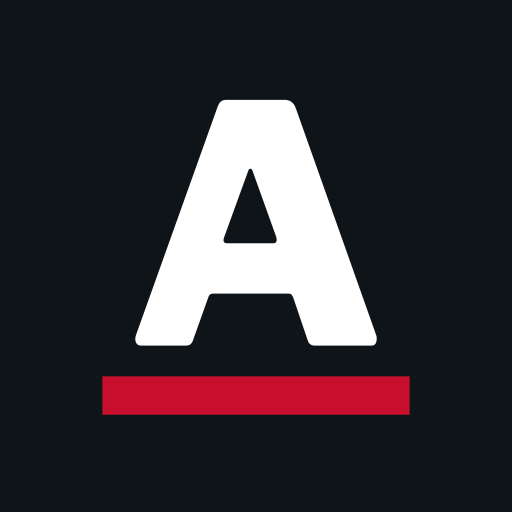
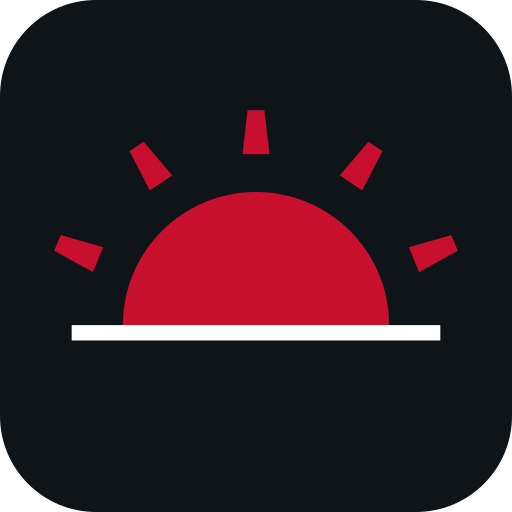
asda

diff --git a/src/lib/brand-mark.ts b/src/lib/brand-mark.ts
@@ -1,14 +1,14 @@
 // Generated by scripts/generate-brand.mjs — run `npm run brand` to update.
 //
-// The "A" monogram on its baseline rule, on a 512-unit grid. Drawn inline by
+// The rising sun over its horizon rule, on a 512-unit grid. Drawn inline by
 // <BrandMark> so the masthead tile matches public/logo.svg exactly.
 export const MARK_GRID = 512
-export const MARK_RADIUS = 0
-export const MARK_GLYPH =
-  'M140.76 345.6L140.76 345.6Q137.45 345.6 135.96 342.45Q134.47 339.31 136.12 334.67L136.12 334.67L217.6 106.8Q218.93 103.15 220.91 101.5Q222.9 99.84 226.88 99.84L226.88 99.84L284.51 99.84Q292.79 99.84 295.77 108.12L295.77 108.12L376.25 335.33Q377.25 338.31 376.25 341.96Q375.26 345.6 371.62 345.6L371.62 345.6L314.65 345.6Q309.35 345.6 307.69 340.3L307.69 340.3L293.12 297.24Q292.46 295.92 291.63 294.76Q290.8 293.6 288.15 293.6L288.15 293.6L212.96 293.6Q209.32 293.6 208.33 297.24L208.33 297.24L192.76 340.96Q192.1 342.95 190.44 344.28Q188.79 345.6 185.47 345.6L185.47 345.6L140.76 345.6M227.21 243.26L273.24 243.26Q277.88 243.26 276.23 236.96L276.23 236.96L252.38 170.39Q251.72 168.73 250.39 168.73Q249.07 168.73 248.4 170.39L248.4 170.39L224.23 236.96Q221.91 243.26 227.21 243.26L227.21 243.26'
-export const MARK_RULE = {
-  x: 102.4,
-  y: 376.32,
-  width: 307.2,
-  height: 38.4,
+export const MARK_RADIUS = 96
+export const MARK_SUN =
+  'M122.88 325.12A133.12 133.12 0 0 1 389.12 325.12ZM103.17 247.25L60.71 235.09L54.25 250.69L92.87 272.12ZM172.19 175.47L143.64 141.77L129.6 151.15L149.81 190.42ZM269.46 154.13L264.44 110.25L247.56 110.25L242.54 154.13ZM362.19 190.42L382.4 151.15L368.36 141.77L339.81 175.47ZM419.13 272.12L457.75 250.69L451.29 235.09L408.83 247.25Z'
+export const MARK_HORIZON = {
+  x: 71.68,
+  y: 325.12,
+  width: 368.64,
+  height: 15.36,
 }

diff --git a/src/components/Logo.tsx b/src/components/Logo.tsx
@@ -1,11 +1,11 @@
 import { SITE_NAME } from '@/lib/brand'
-import { MARK_GLYPH, MARK_GRID, MARK_RADIUS, MARK_RULE } from '@/lib/brand-mark'
+import { MARK_GRID, MARK_HORIZON, MARK_RADIUS, MARK_SUN } from '@/lib/brand-mark'
 
 /**
- * The house mark: an "A" monogram standing on the red press rule, on an ink
- * tile. Drawn inline from the same outlines as `public/logo.svg` so the
- * masthead, the favicon and the social card are one drawing at no extra
- * request. `tone="inverse"` reverses the tile for the dark footer slab.
+ * The house mark: the red mashriq sun rising over a horizon rule, on a
+ * rounded ink tile. Drawn inline from the same geometry as `public/logo.svg`
+ * so the masthead, the favicon and the social card are one drawing at no
+ * extra request. `tone="inverse"` reverses the tile for the dark footer slab.
  */
 export function BrandMark({
   size = 40,
@@ -17,7 +17,7 @@ export function BrandMark({
   className?: string
 }) {
   const field = tone === 'inverse' ? 'var(--bg-base)' : 'var(--ink)'
-  const letter = tone === 'inverse' ? 'var(--ink)' : 'var(--bg-base)'
+  const horizon = tone === 'inverse' ? 'var(--ink)' : 'var(--bg-base)'
 
   return (
     <svg
@@ -34,13 +34,13 @@ export function BrandMark({
         ry={MARK_RADIUS}
         fill={field}
       />
-      <path d={MARK_GLYPH} fill={letter} />
+      <path d={MARK_SUN} fill="var(--brand-red)" />
       <rect
-        x={MARK_RULE.x}
-        y={MARK_RULE.y}
-        width={MARK_RULE.width}
-        height={MARK_RULE.height}
-        fill="var(--brand-red)"
+        x={MARK_HORIZON.x}
+        y={MARK_HORIZON.y}
+        width={MARK_HORIZON.width}
+        height={MARK_HORIZON.height}
+        fill={horizon}
       />
     </svg>
   )
